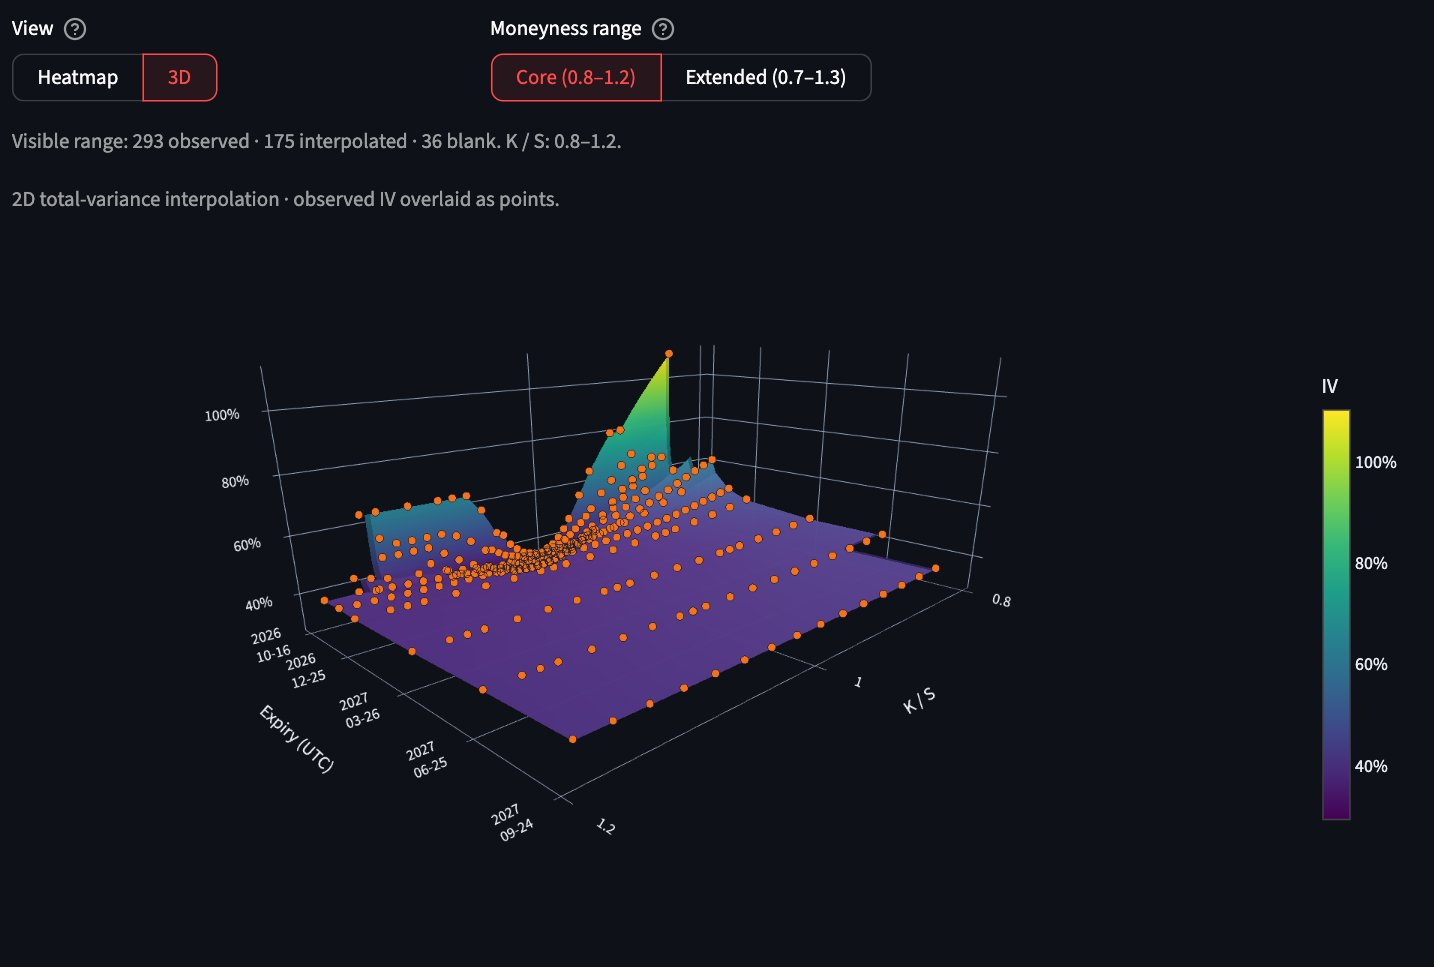
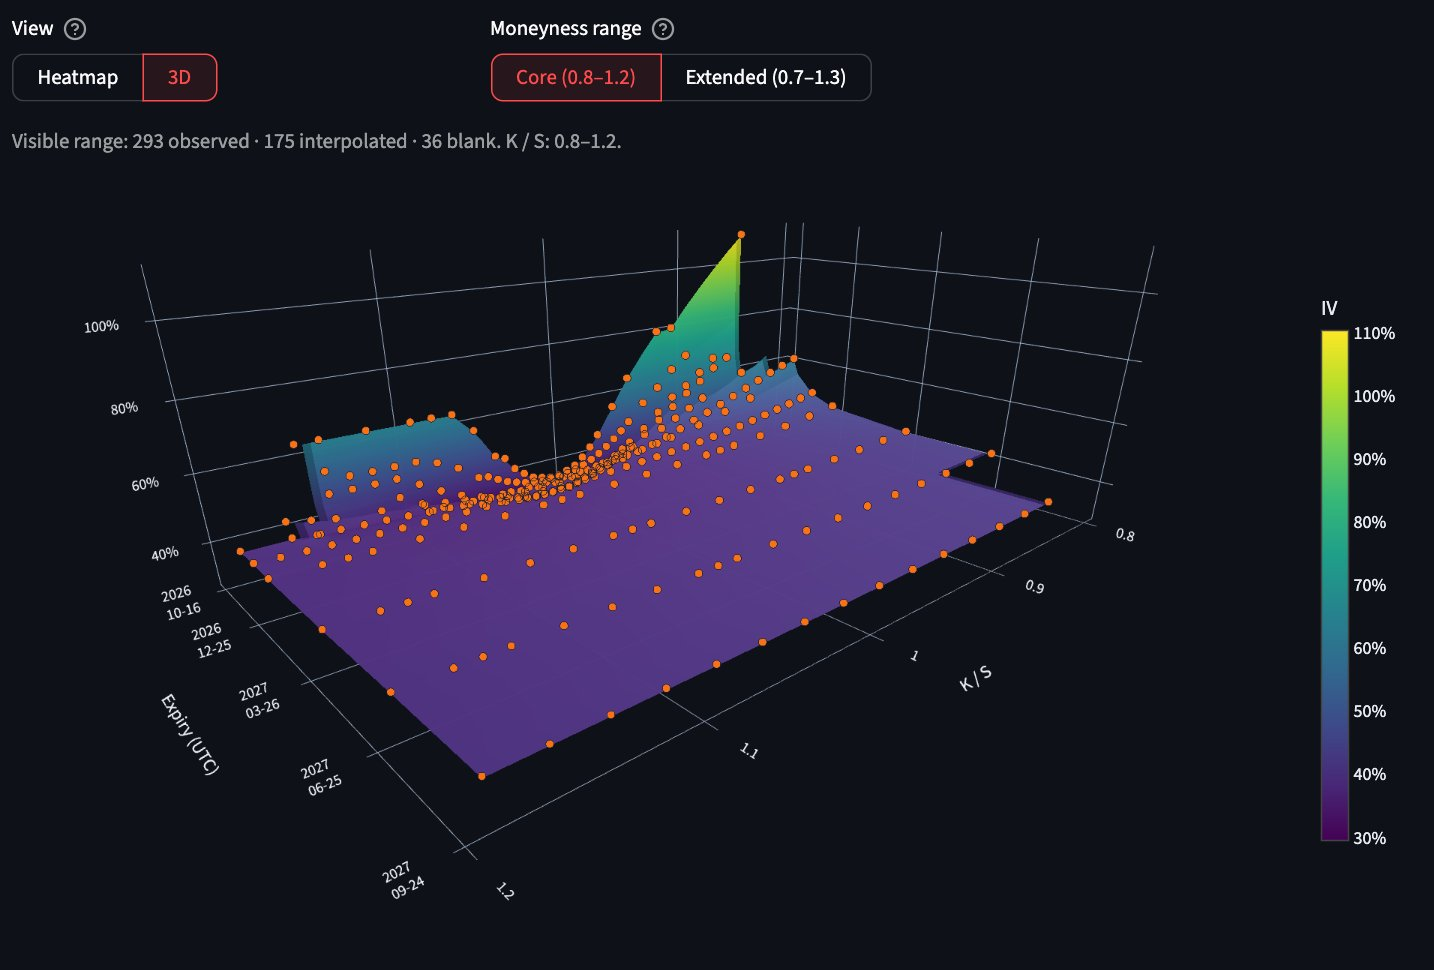
Fill the 3D IV surface frame and bring its colorbar in
Wide: eye (1.4, 1.5, 0.55), look-at (0.05, -0.05, -0.45), height 500.
Compact: eye (1.6, 1.7, 0.62), look-at (0.15, -0.15, -0.45), height 340,
side margins 10. Both: aspect ratio (2.0, 1.2, 0.72), scene domain ending
at 0.93 / 0.9 with the colorbar (len 0.8) just after it. Chosen from dark
screenshots at 1400 and 600 px: the mesh fills the frame and no axis label
is clipped. The 32 px spacer after the chart goes, since the fill caption
now follows it. Camera uirevision v20; README surface image retaken.

diff --git a/iv_surface/visualization.py b/iv_surface/visualization.py
@@ -317,9 +317,9 @@ def make_iv_surface_figure(
         colorbar={
             "title": {"text": "IV", "side": "top"},
             "tickformat": ".0%",
-            "len": 0.72,
+            "len": 0.8,
             "thickness": 18,
-            "x": 1.02,
+            "x": 0.92 if compact_layout else 0.94,
             "y": 0.52,
         },
         lighting={
@@ -402,7 +402,9 @@ def make_iv_surface_figure(
     }
     figure.update_layout(
         scene={
-            "domain": {"x": [0, 1]},
+            # The scene stops short of the colorbar so the mesh can fill the
+            # width; its axis labels are clipped at the scene's edges.
+            "domain": {"x": [0, 0.9] if compact_layout else [0, 0.93]},
             "bgcolor": "rgba(0, 0, 0, 0)",
             "xaxis": {"title": {"text": "K / S", "font": {"size": 12}}, **axis_style},
             "yaxis": {
@@ -426,23 +428,27 @@ def make_iv_surface_figure(
                 **axis_style,
             },
             # Lowering the look-at point lifts the box in the frame, so the
-            # near corner's expiry ticks clear the bottom edge.
-            "camera": {
-                "eye": (
-                    {"x": 1.7, "y": 1.7, "z": 0.6}
-                    if compact_layout else {"x": 1.6, "y": 1.6, "z": 0.5}
-                ),
-                "center": {"x": 0, "y": 0, "z": -0.36},
-            },
+            # near corner's expiry ticks clear the bottom edge; moving it
+            # along +x/-y shifts the box right, clear of the left edge.
+            "camera": (
+                {
+                    "eye": {"x": 1.6, "y": 1.7, "z": 0.62},
+                    "center": {"x": 0.15, "y": -0.15, "z": -0.45},
+                }
+                if compact_layout else {
+                    "eye": {"x": 1.4, "y": 1.5, "z": 0.55},
+                    "center": {"x": 0.05, "y": -0.05, "z": -0.45},
+                }
+            ),
             "aspectmode": "manual",
-            "aspectratio": {"x": 1.7, "y": 1.2, "z": 0.72},
+            "aspectratio": {"x": 2.0, "y": 1.2, "z": 0.72},
             "dragmode": "turntable",
         },
         autosize=True,
-        height=320 if compact_layout else 460,
+        height=340 if compact_layout else 500,
         margin={
-            "l": 40 if compact_layout else 20,
-            "r": 20 if compact_layout else 12,
+            "l": 10 if compact_layout else 20,
+            "r": 10 if compact_layout else 12,
             "t": 10,
             "b": 10,
         },
@@ -455,7 +461,7 @@ def make_iv_surface_figure(
             "yanchor": "top",
             "bgcolor": "rgba(0, 0, 0, 0)",
         },
-        uirevision="iv-surface-camera-v19",
+        uirevision="iv-surface-camera-v20",
     )
     return figure
 

diff --git a/tests/test_visualization.py b/tests/test_visualization.py
@@ -522,23 +522,33 @@ def test_3d_surface_uses_same_values_and_true_tau_axis_as_heatmap():
     assert list(surface.layout.scene.yaxis.ticktext) == [
         "2026<br>06-01", "2026<br>09-01"
     ]
-    assert surface.layout.scene.aspectratio.x == 1.7
-    assert surface.layout.scene.aspectratio.y == 1.2
-    assert surface.layout.scene.aspectratio.z == 0.72
+    assert surface.layout.scene.aspectratio.to_plotly_json() == {
+        "x": 2.0, "y": 1.2, "z": 0.72
+    }
+    assert compact.layout.scene.aspectratio == surface.layout.scene.aspectratio
     assert surface.layout.scene.dragmode == "turntable"
-    assert surface.layout.height == 460
-    assert compact.layout.height == 320
+    assert surface.layout.height == 500
+    assert compact.layout.height == 340
     assert surface.layout.scene.camera.eye.to_plotly_json() == {
-        "x": 1.6, "y": 1.6, "z": 0.5
+        "x": 1.4, "y": 1.5, "z": 0.55
     }
     assert compact.layout.scene.camera.eye.to_plotly_json() == {
-        "x": 1.7, "y": 1.7, "z": 0.6
+        "x": 1.6, "y": 1.7, "z": 0.62
     }
-    assert surface.layout.scene.camera.center.z == -0.36
+    assert surface.layout.scene.camera.center.to_plotly_json() == {
+        "x": 0.05, "y": -0.05, "z": -0.45
+    }
+    assert compact.layout.scene.camera.center.to_plotly_json() == {
+        "x": 0.15, "y": -0.15, "z": -0.45
+    }
+    assert surface.layout.scene.domain.x == (0, 0.93)
+    assert compact.layout.scene.domain.x == (0, 0.9)
+    assert (trace.colorbar.x, trace.colorbar.len) == (0.94, 0.8)
+    assert (compact.data[0].colorbar.x, compact.data[0].colorbar.len) == (0.92, 0.8)
     assert (surface.layout.margin.t, surface.layout.margin.b) == (10, 10)
-    assert surface.layout.uirevision == "iv-surface-camera-v19"
+    assert (compact.layout.margin.l, compact.layout.margin.r) == (10, 10)
+    assert surface.layout.uirevision == "iv-surface-camera-v20"
     assert trace.colorbar.thickness == 18
-    assert trace.colorbar.len == 0.72
     assert trace.lighting.ambient == 0.78
     assert "Surface value: Interpolated" in trace.text[0][1]
     assert observed.name == "Observed IV"

diff --git a/dashboard/surface_view.py b/dashboard/surface_view.py
@@ -147,7 +147,3 @@ def _surface_3d_chart(surface_frame, iv_source):
                     width="stretch",
                     config={"modeBarButtonsToRemove": ["resetCameraDefault3d"]},
                 )
-    st.markdown(
-        '<div aria-hidden="true" style="height: 32px"></div>',
-        unsafe_allow_html=True,
-    )
